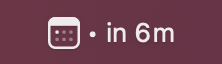
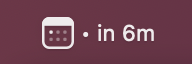
README: screenshots retaken on 0.10.1, and the reminder card
Settings → Appearance, Events and About now show v0.10.1, in the same
framing as before. The countdown is retaken from the active display, so it
is sharp and not dimmed. The reminder card, a minute before a call, is
pictured for the first time, and its README block is no longer commented
out.

Changed region(s): [[0.1875, 0.25, 0.8125, 0.7812], [0.2188, 0.25, 0.25, 0.3438]]

diff --git a/README.md b/README.md
@@ -84,18 +84,16 @@ chord for joining the next meeting.
 </p>
 
 <p align="center">
-  <img src="docs/screenshots/countdown.png" alt="The menu bar item counting down to the next meeting: “• in 6m” after the calendar icon" width="110">
+  <img src="docs/screenshots/countdown.png" alt="The menu bar item counting down to the next meeting: “• in 6m” after the calendar icon" width="96">
   <br>
   <sub>The menu bar item counting down to the next meeting.</sub>
 </p>
 
-<!-- Reminder card, once captured as docs/screenshots/reminder.png:
 <p align="center">
-  <img src="docs/screenshots/reminder.png" alt="The reminder card under the menu bar item a minute before a call: the meeting's name and time, with Join, Snooze and Skip" width="320">
+  <img src="docs/screenshots/reminder.png" alt="The reminder card a minute before a call: “Starts in 1 minute”, the meeting’s time and name, Join Zoom meeting, Remind me in 5 minutes, and Skip this meeting" width="326">
   <br>
   <sub>A minute before a call, the card offers Join without taking focus.</sub>
 </p>
--->
 
 ## Install
 
